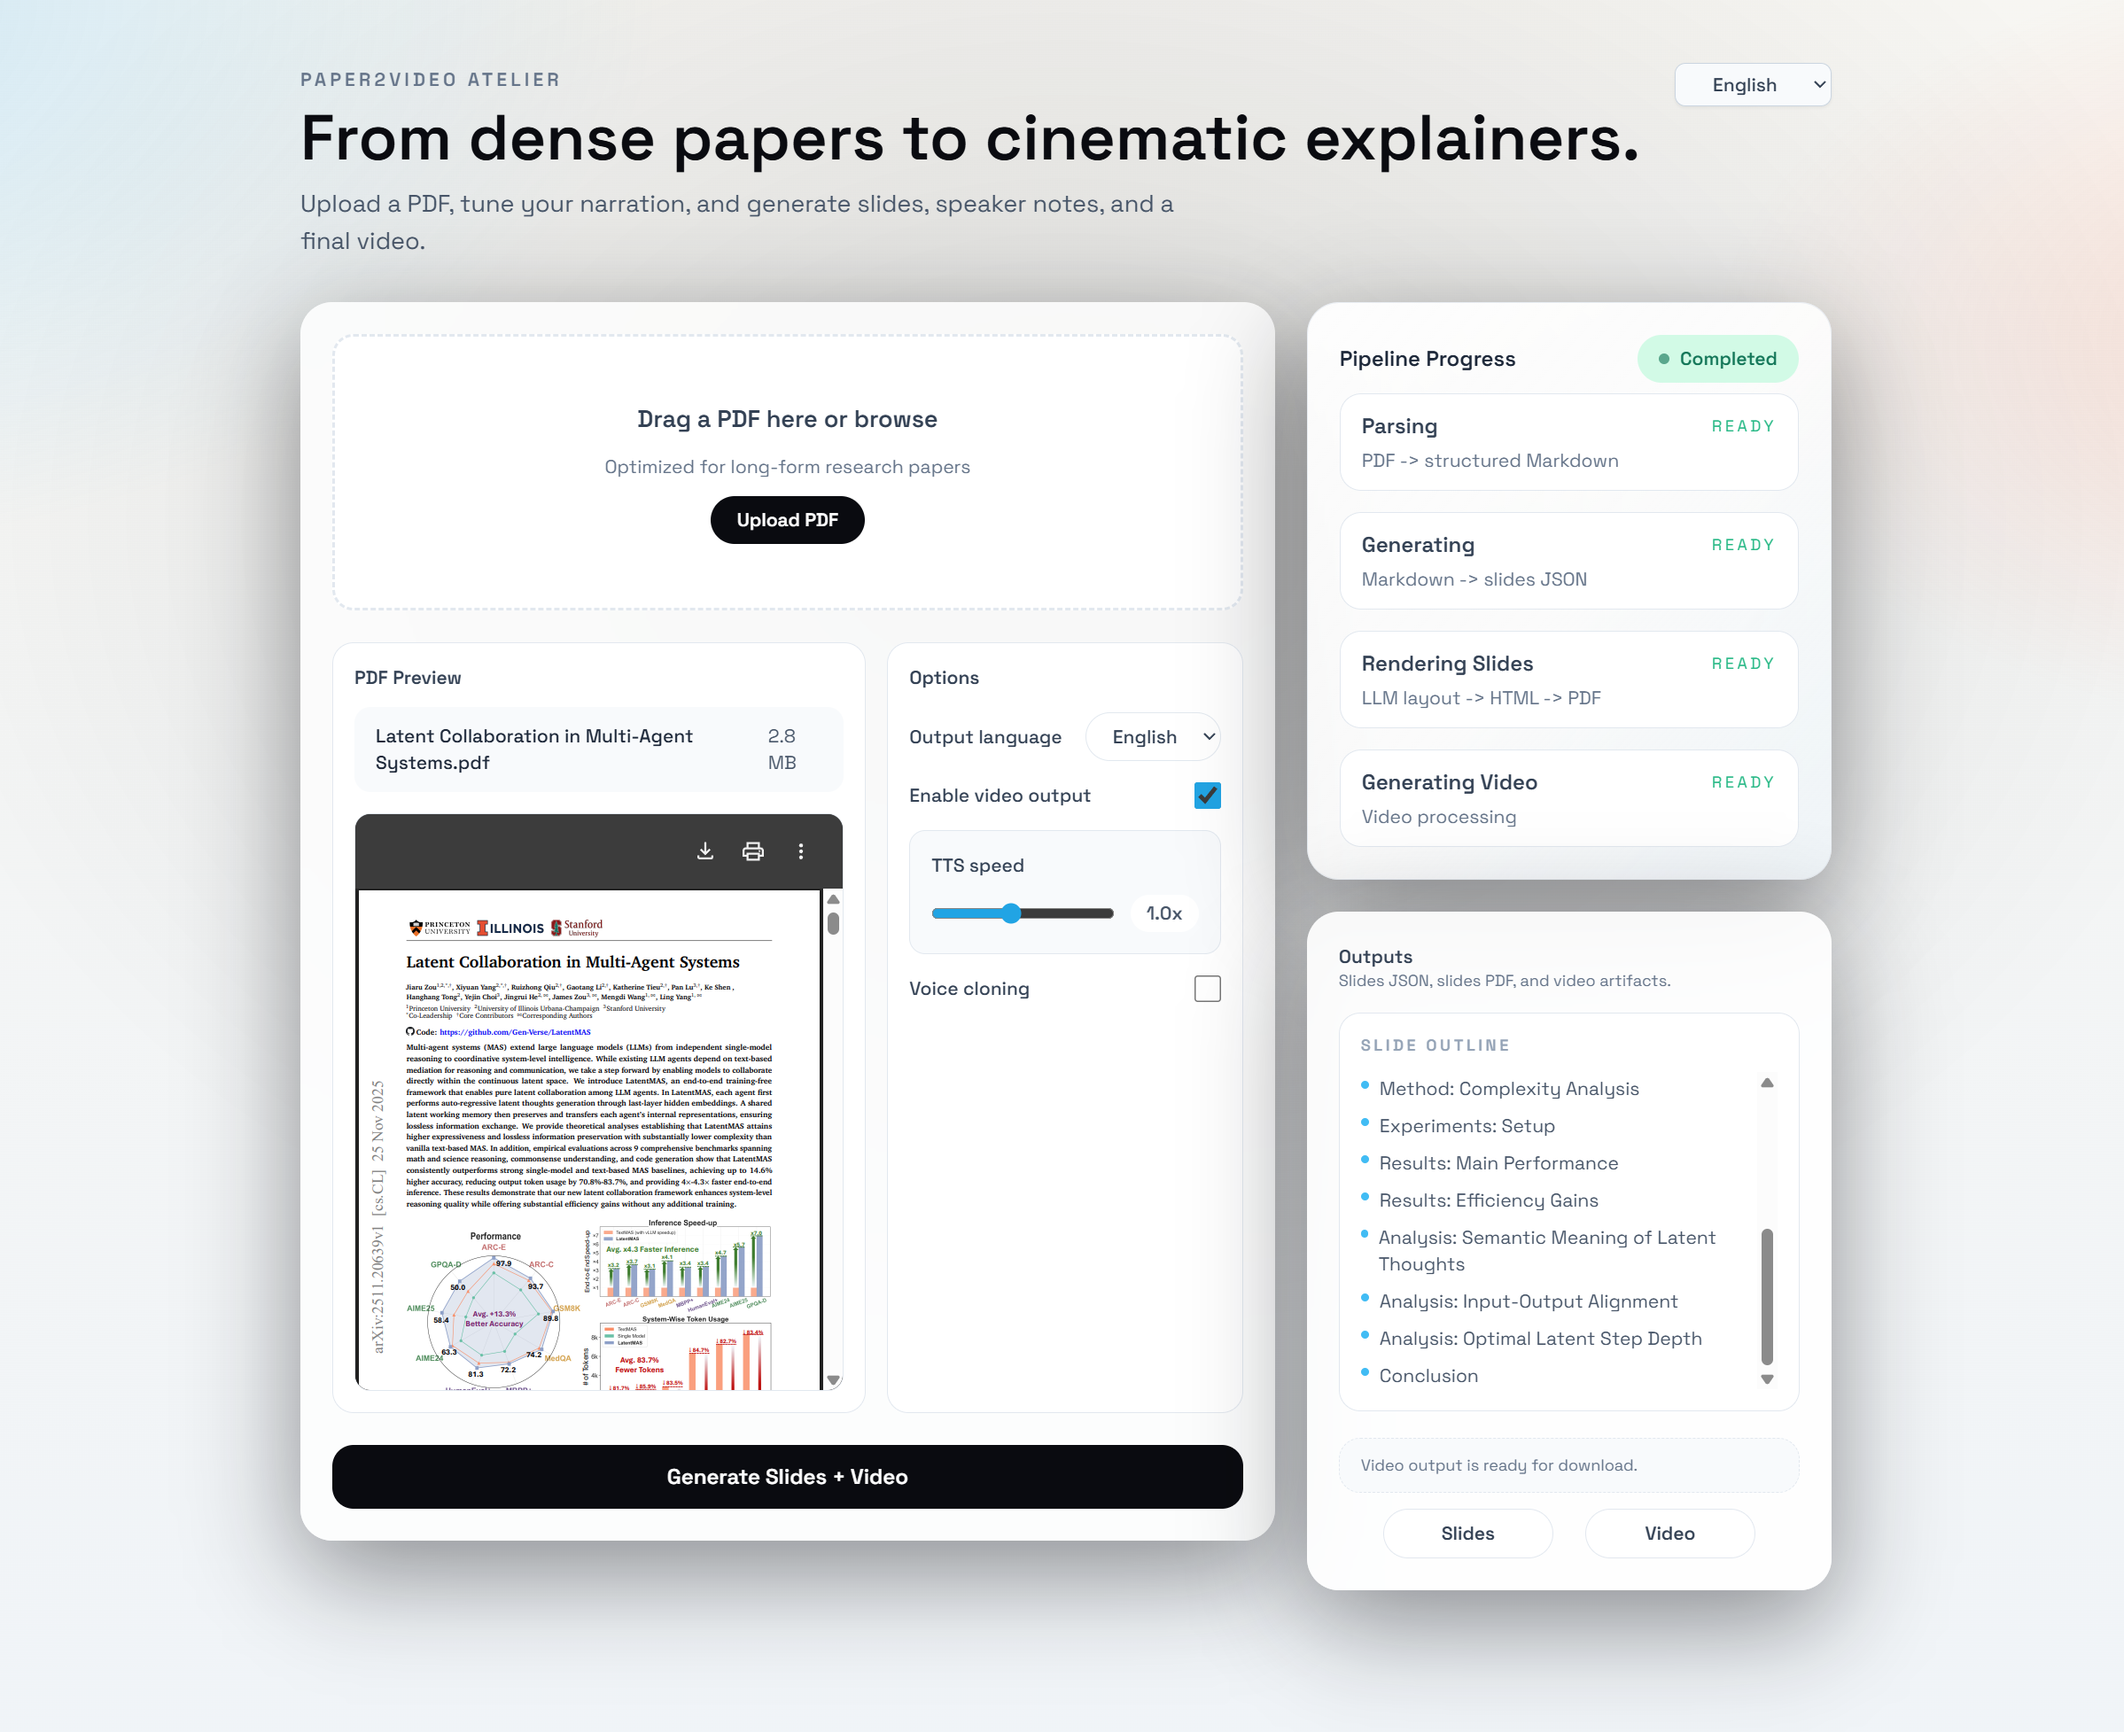
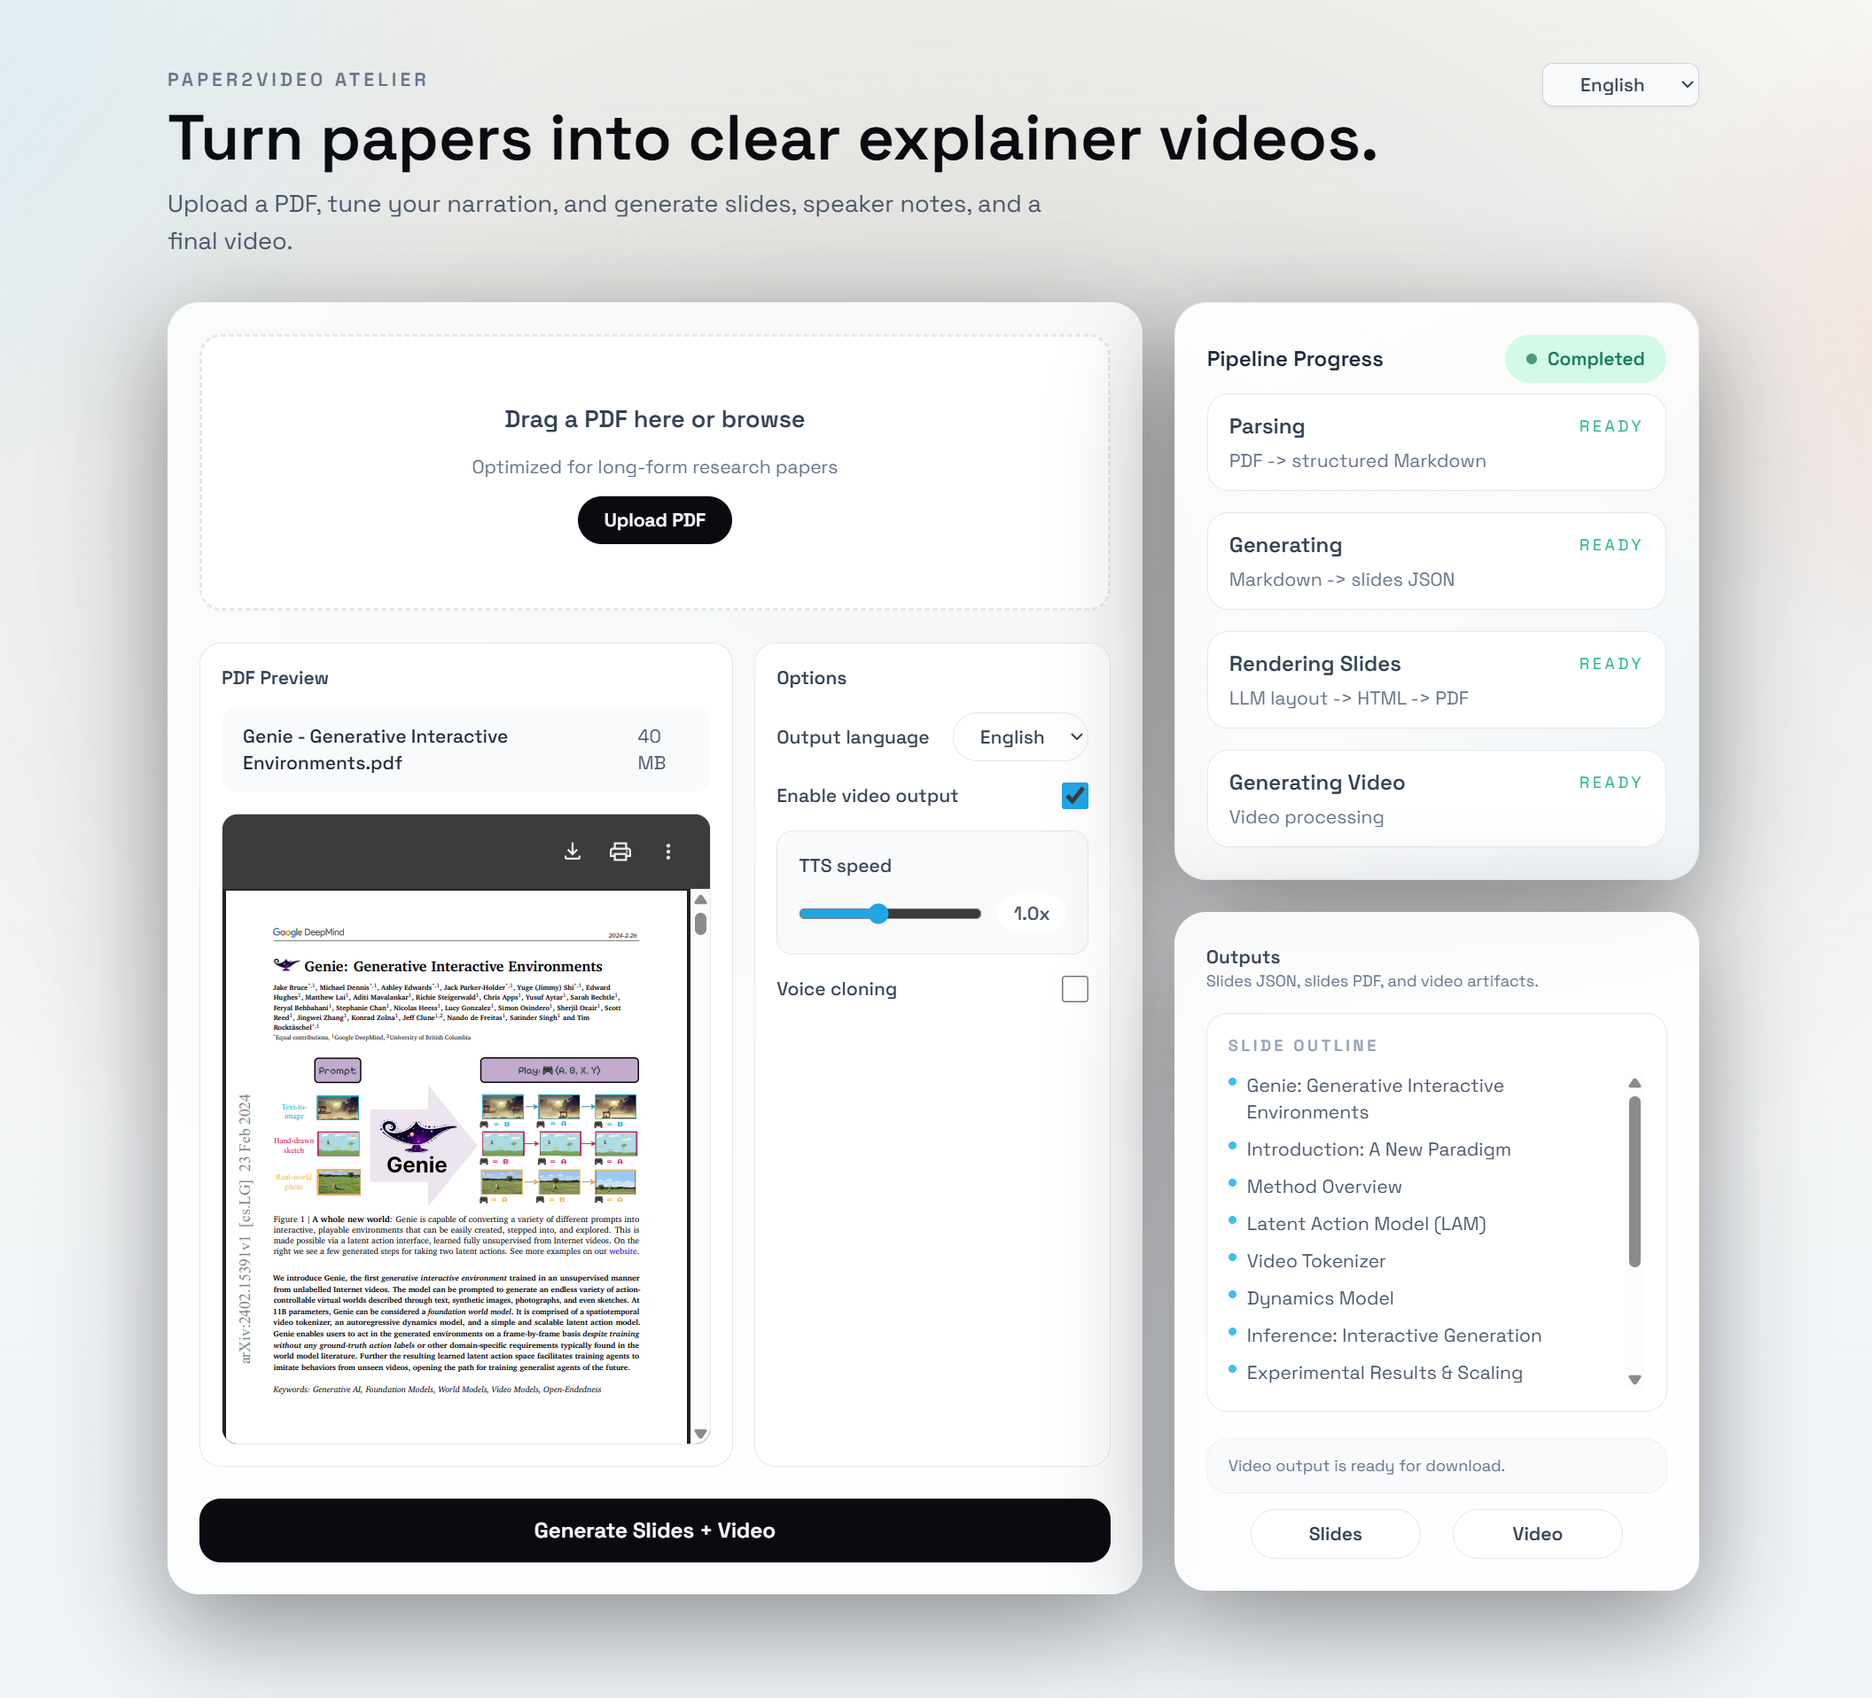
update UI texts

Changed region(s): [[0.0625, 0.0308, 0.9375, 0.9854], [0.2812, 0.2156, 0.4375, 0.3387], [0.8125, 0.0308, 0.875, 0.0616]]

diff --git a/app/page.tsx b/app/page.tsx
@@ -15,7 +15,7 @@ const formatBytes = (value: number) => {
 
 const translations = {
   en: {
-    title: 'From dense papers to cinematic explainers.',
+    title: 'Turn papers into clear explainer videos.',
     subtitle: 'Upload a PDF, tune your narration, and generate slides, speaker notes, and a final video.',
     dragText: 'Drag a PDF here or browse',
     dragSubtext: 'Optimized for long-form research papers',
@@ -62,7 +62,7 @@ const translations = {
     createError: 'Failed to create job.'
   },
   zh: {
-    title: '让密密麻麻的论文，秒变电影级科普。',
+    title: '把论文变成清晰的讲解视频。',
     subtitle: '上传PDF，调整旁白，生成幻灯片、演讲笔记和最终视频。',
     dragText: '拖拽PDF到此处或浏览',
     dragSubtext: '专为长篇研究论文优化',
@@ -345,7 +345,7 @@ export default function HomePage() {
             </div>
 
             <div className="mt-6 grid gap-4 md:grid-cols-[1.2fr_0.8fr]">
-              <div className="flex h-[580px] flex-col rounded-2xl border border-slate-200 bg-white p-4">
+              <div className="flex h-[620px] flex-col rounded-2xl border border-slate-200 bg-white p-4">
                 <p className="text-sm font-semibold text-slate-700">{t.pdfPreview}</p>
                 {pdfFile ? (
                   <div className="mt-3 flex items-center justify-between rounded-xl bg-slate-50 px-4 py-3 text-sm text-slate-600">

diff --git a/README.md b/README.md
@@ -2,7 +2,7 @@
 
 ![UI Screenshot](./docs/ScreenShot_Paper2Video.png)
 
-Transform dense academic papers into cinematic video explainers with AI-powered narration, automated slide generation, and professional video production.
+Transform academic papers into clear video explainers with AI-powered narration, automated slide generation, and professional video production.
 
 [查看中文版](./README_CN.md)
 

diff --git a/README_CN.md b/README_CN.md
@@ -2,7 +2,7 @@
 
 ![UI 界面截图](./docs/ScreenShot_Paper2Video_CN.png)
 
-将密密麻麻的学术论文转化为电影级科普视频，具备 AI 驱动的旁白、自动幻灯片生成和专业视频制作功能。
+把论文变成清晰的讲解视频，具备 AI 驱动的旁白、自动幻灯片生成和专业视频制作功能。
 
 [View in English](./README.md)
 
